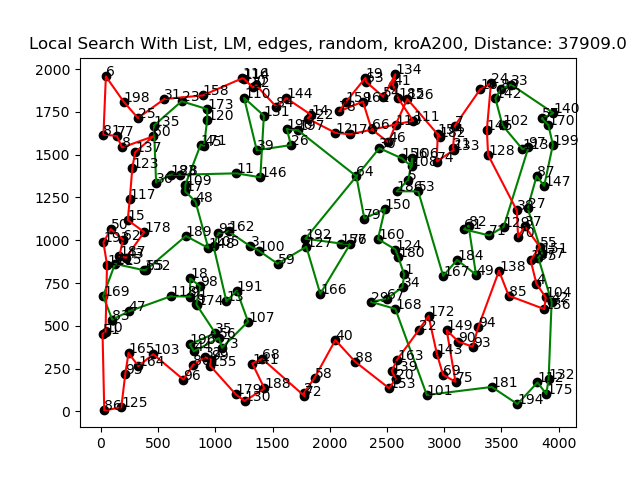
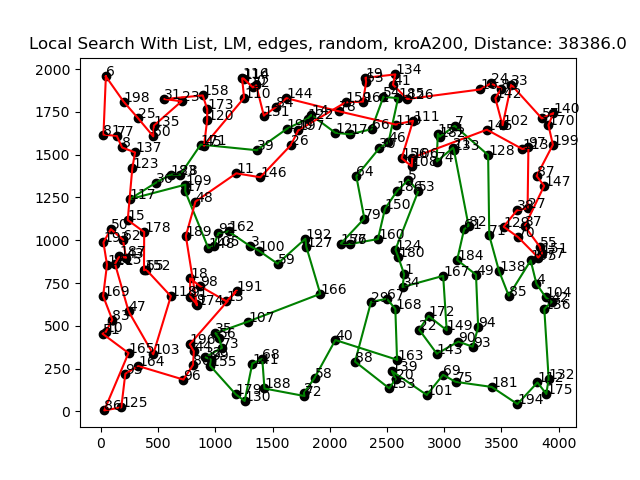
task 3 - update

diff --git a/approaches/local_search_cycle/local_search_with_list_heuristic.py b/approaches/local_search_cycle/local_search_with_list_heuristic.py
@@ -94,17 +94,17 @@ class LocalSearchWithList(AbstractApproach):
 
     def _get_lists_update_after_interclass(self, total_best_cost, candidate, local_results_first, local_results_second):
         self._intraclass_computation(best_cost=total_best_cost, checked_cycle=self._second_solution, \
-                                            computation_cycle=self._first_solution, new_node = candidate.node1, result=local_results_second, main_cycle='_second_solution')
+                                            computation_cycle=None, new_node = candidate.node1, result=local_results_second, main_cycle='_second_solution')
         self._intraclass_computation(best_cost=total_best_cost, checked_cycle=self._first_solution, \
-                            computation_cycle=self._second_solution, new_node = candidate.node2, result=local_results_first)
+                            computation_cycle=None, new_node = candidate.node2, result=local_results_first)
         self._interclass_computation(best_cost=total_best_cost, new_node1=candidate.node1, new_node2=candidate.node2, result = local_results_first)
         self._interclass_computation(best_cost=total_best_cost, new_node1=candidate.node1, new_node2=candidate.node2, result = local_results_second)
     
     def _get_lists_update_after_intraclass(self, total_best_cost, candidate, local_results, main_cycle = '_second_solution'):
         self._intraclass_computation(best_cost=total_best_cost, checked_cycle=getattr(self, main_cycle), \
-                                            computation_cycle=self._first_solution, new_node = candidate.node2, result=local_results, main_cycle=main_cycle)
+                                            computation_cycle=None, new_node = candidate.node2, result=local_results, main_cycle=main_cycle)
         self._intraclass_computation(best_cost=total_best_cost, checked_cycle=getattr(self, main_cycle), \
-                            computation_cycle=self._second_solution, new_node = candidate.node1, result=local_results)
+                            computation_cycle=None, new_node = candidate.node1, result=local_results, main_cycle=main_cycle)
 
         self._interclass_computation(best_cost=total_best_cost, new_node1=candidate.node1, new_node2=candidate.node2, result = local_results, main_cycle = main_cycle)
 
@@ -146,7 +146,7 @@ class LocalSearchWithList(AbstractApproach):
                 if temp_cost < best_cost:   
                     result.add( Replacement(None, None, temp_cost, node1, node2, 'interclass') )
 
-            nodes_product = list(product([new_node1], self._second_solution[:-1]))
+            nodes_product = list(product([new_node2], self._second_solution[:-1]))
             for (node1, node2) in nodes_product:
                 _, _, temp_cost = cycle_operations.replace_nodes_between_cycles(self, node1, node2, self._first_solution[:], self._second_solution[:], best_cost)
                 if temp_cost < best_cost:   
